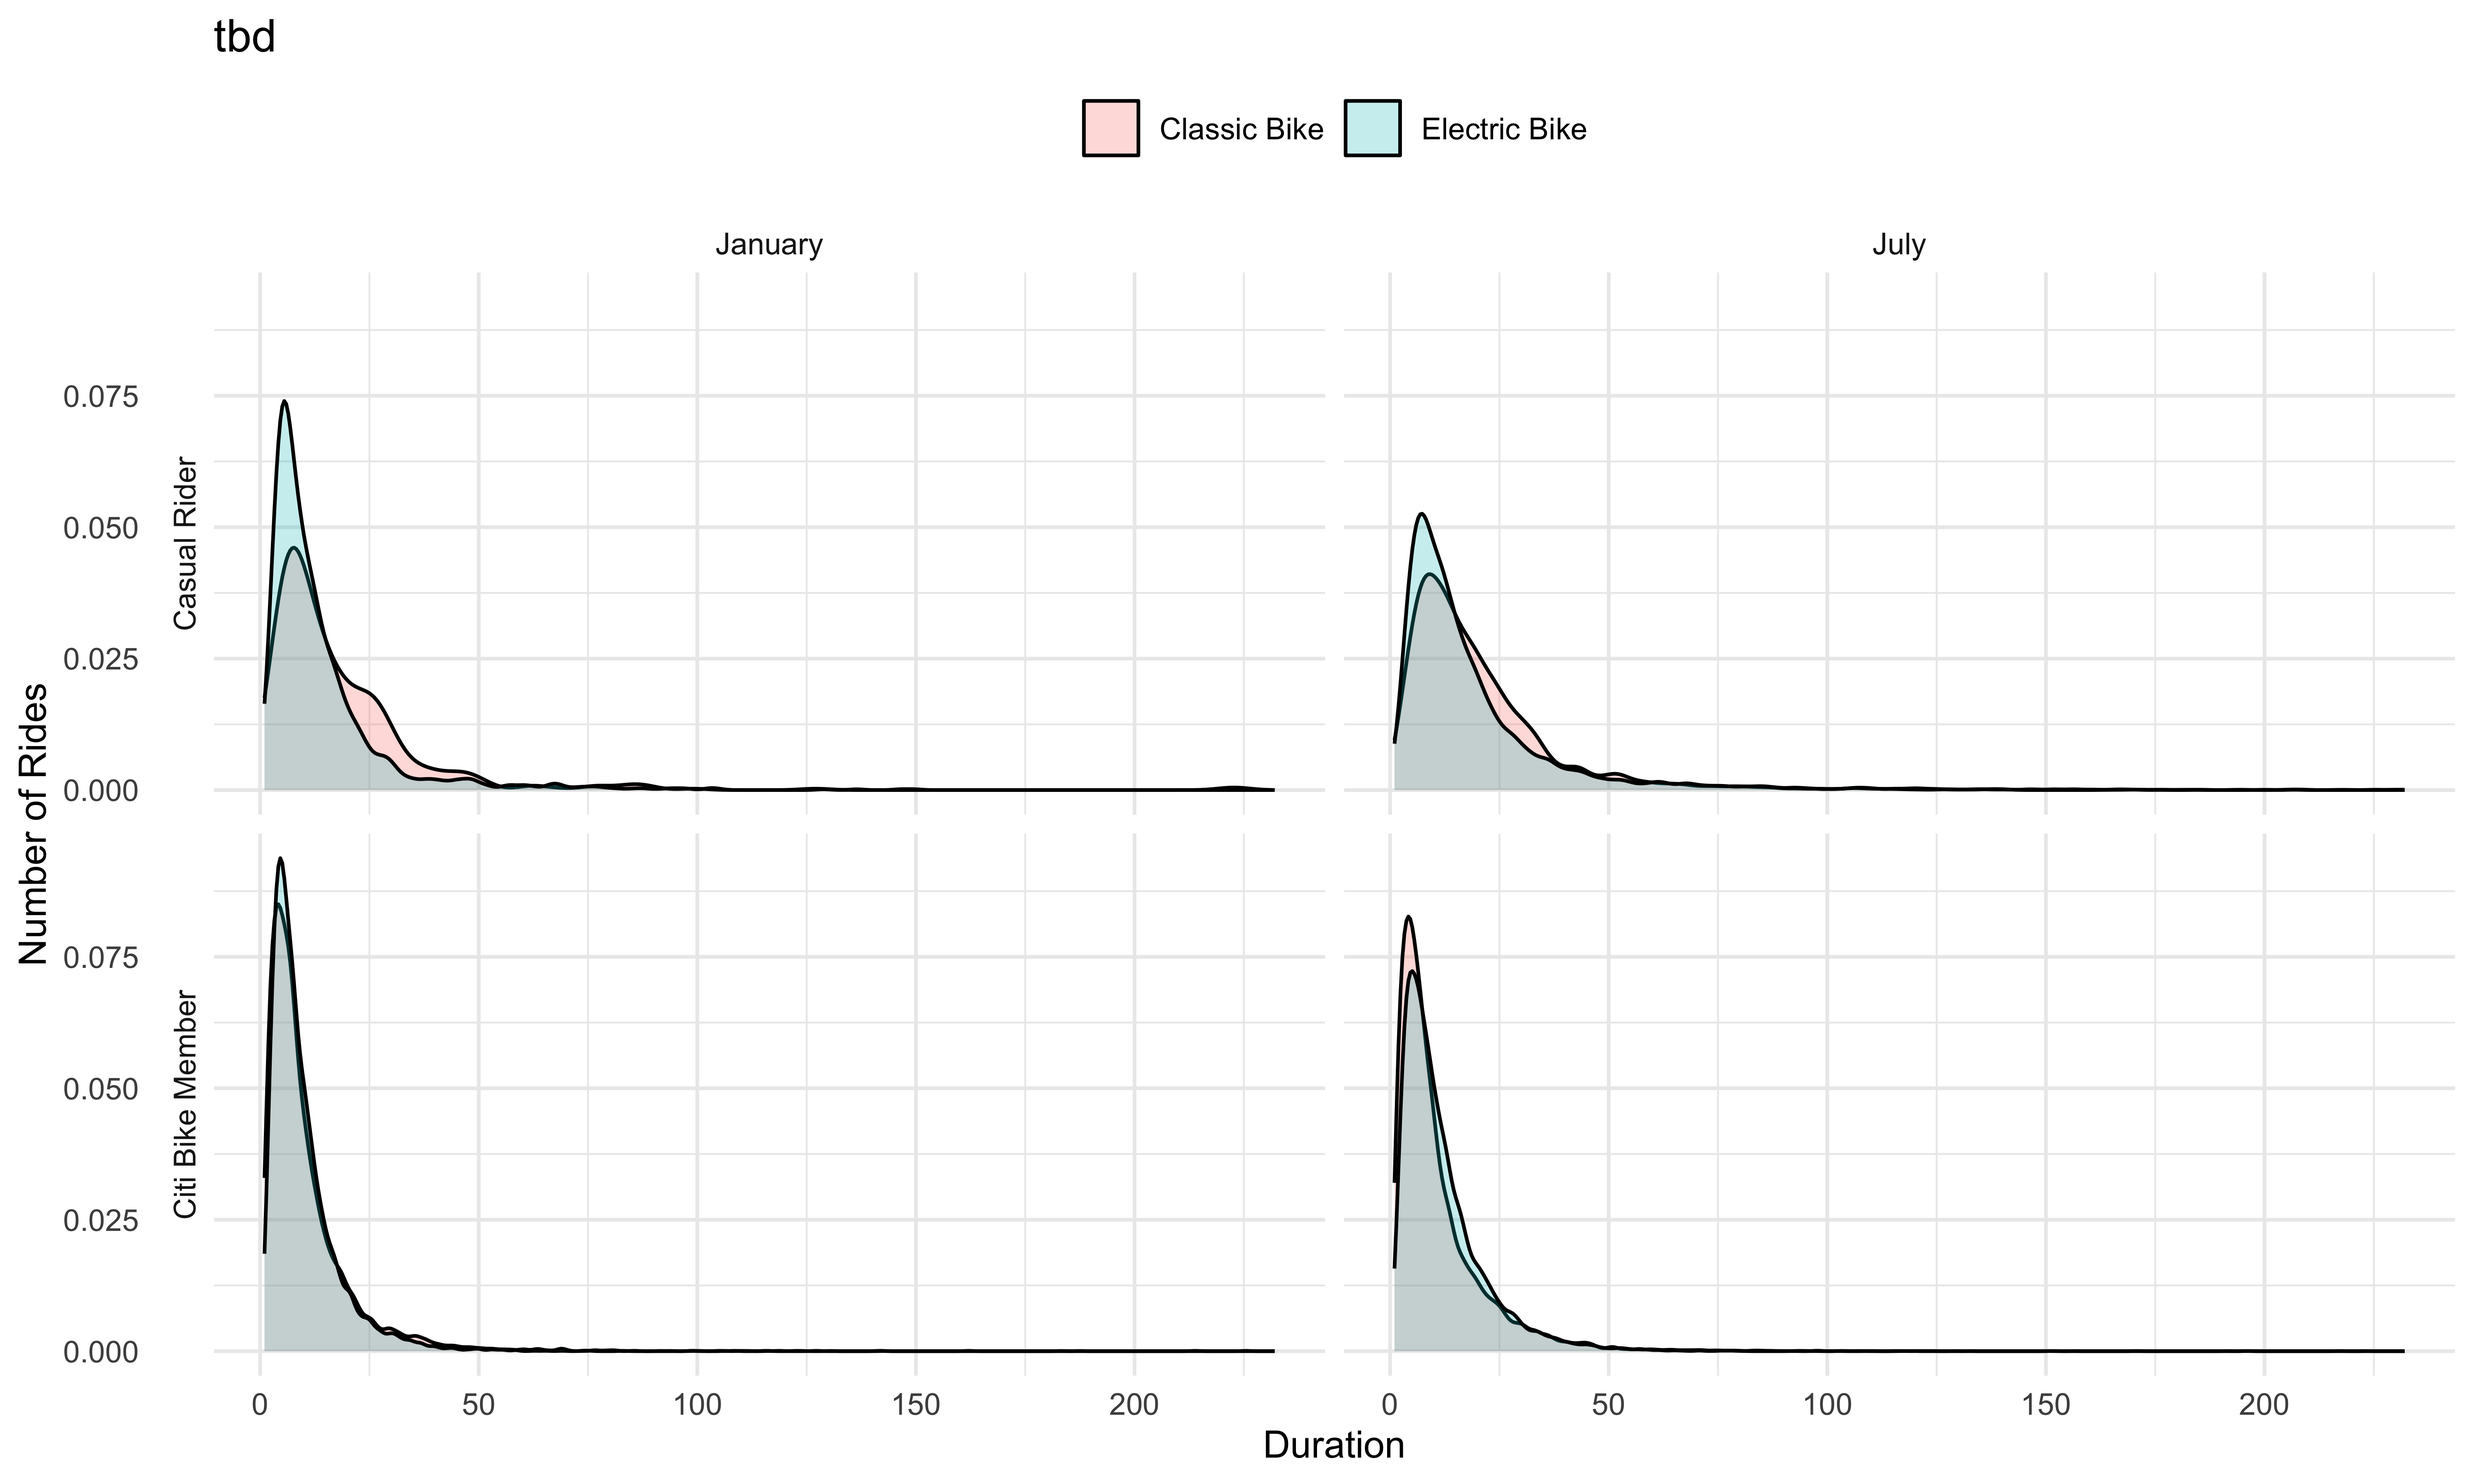
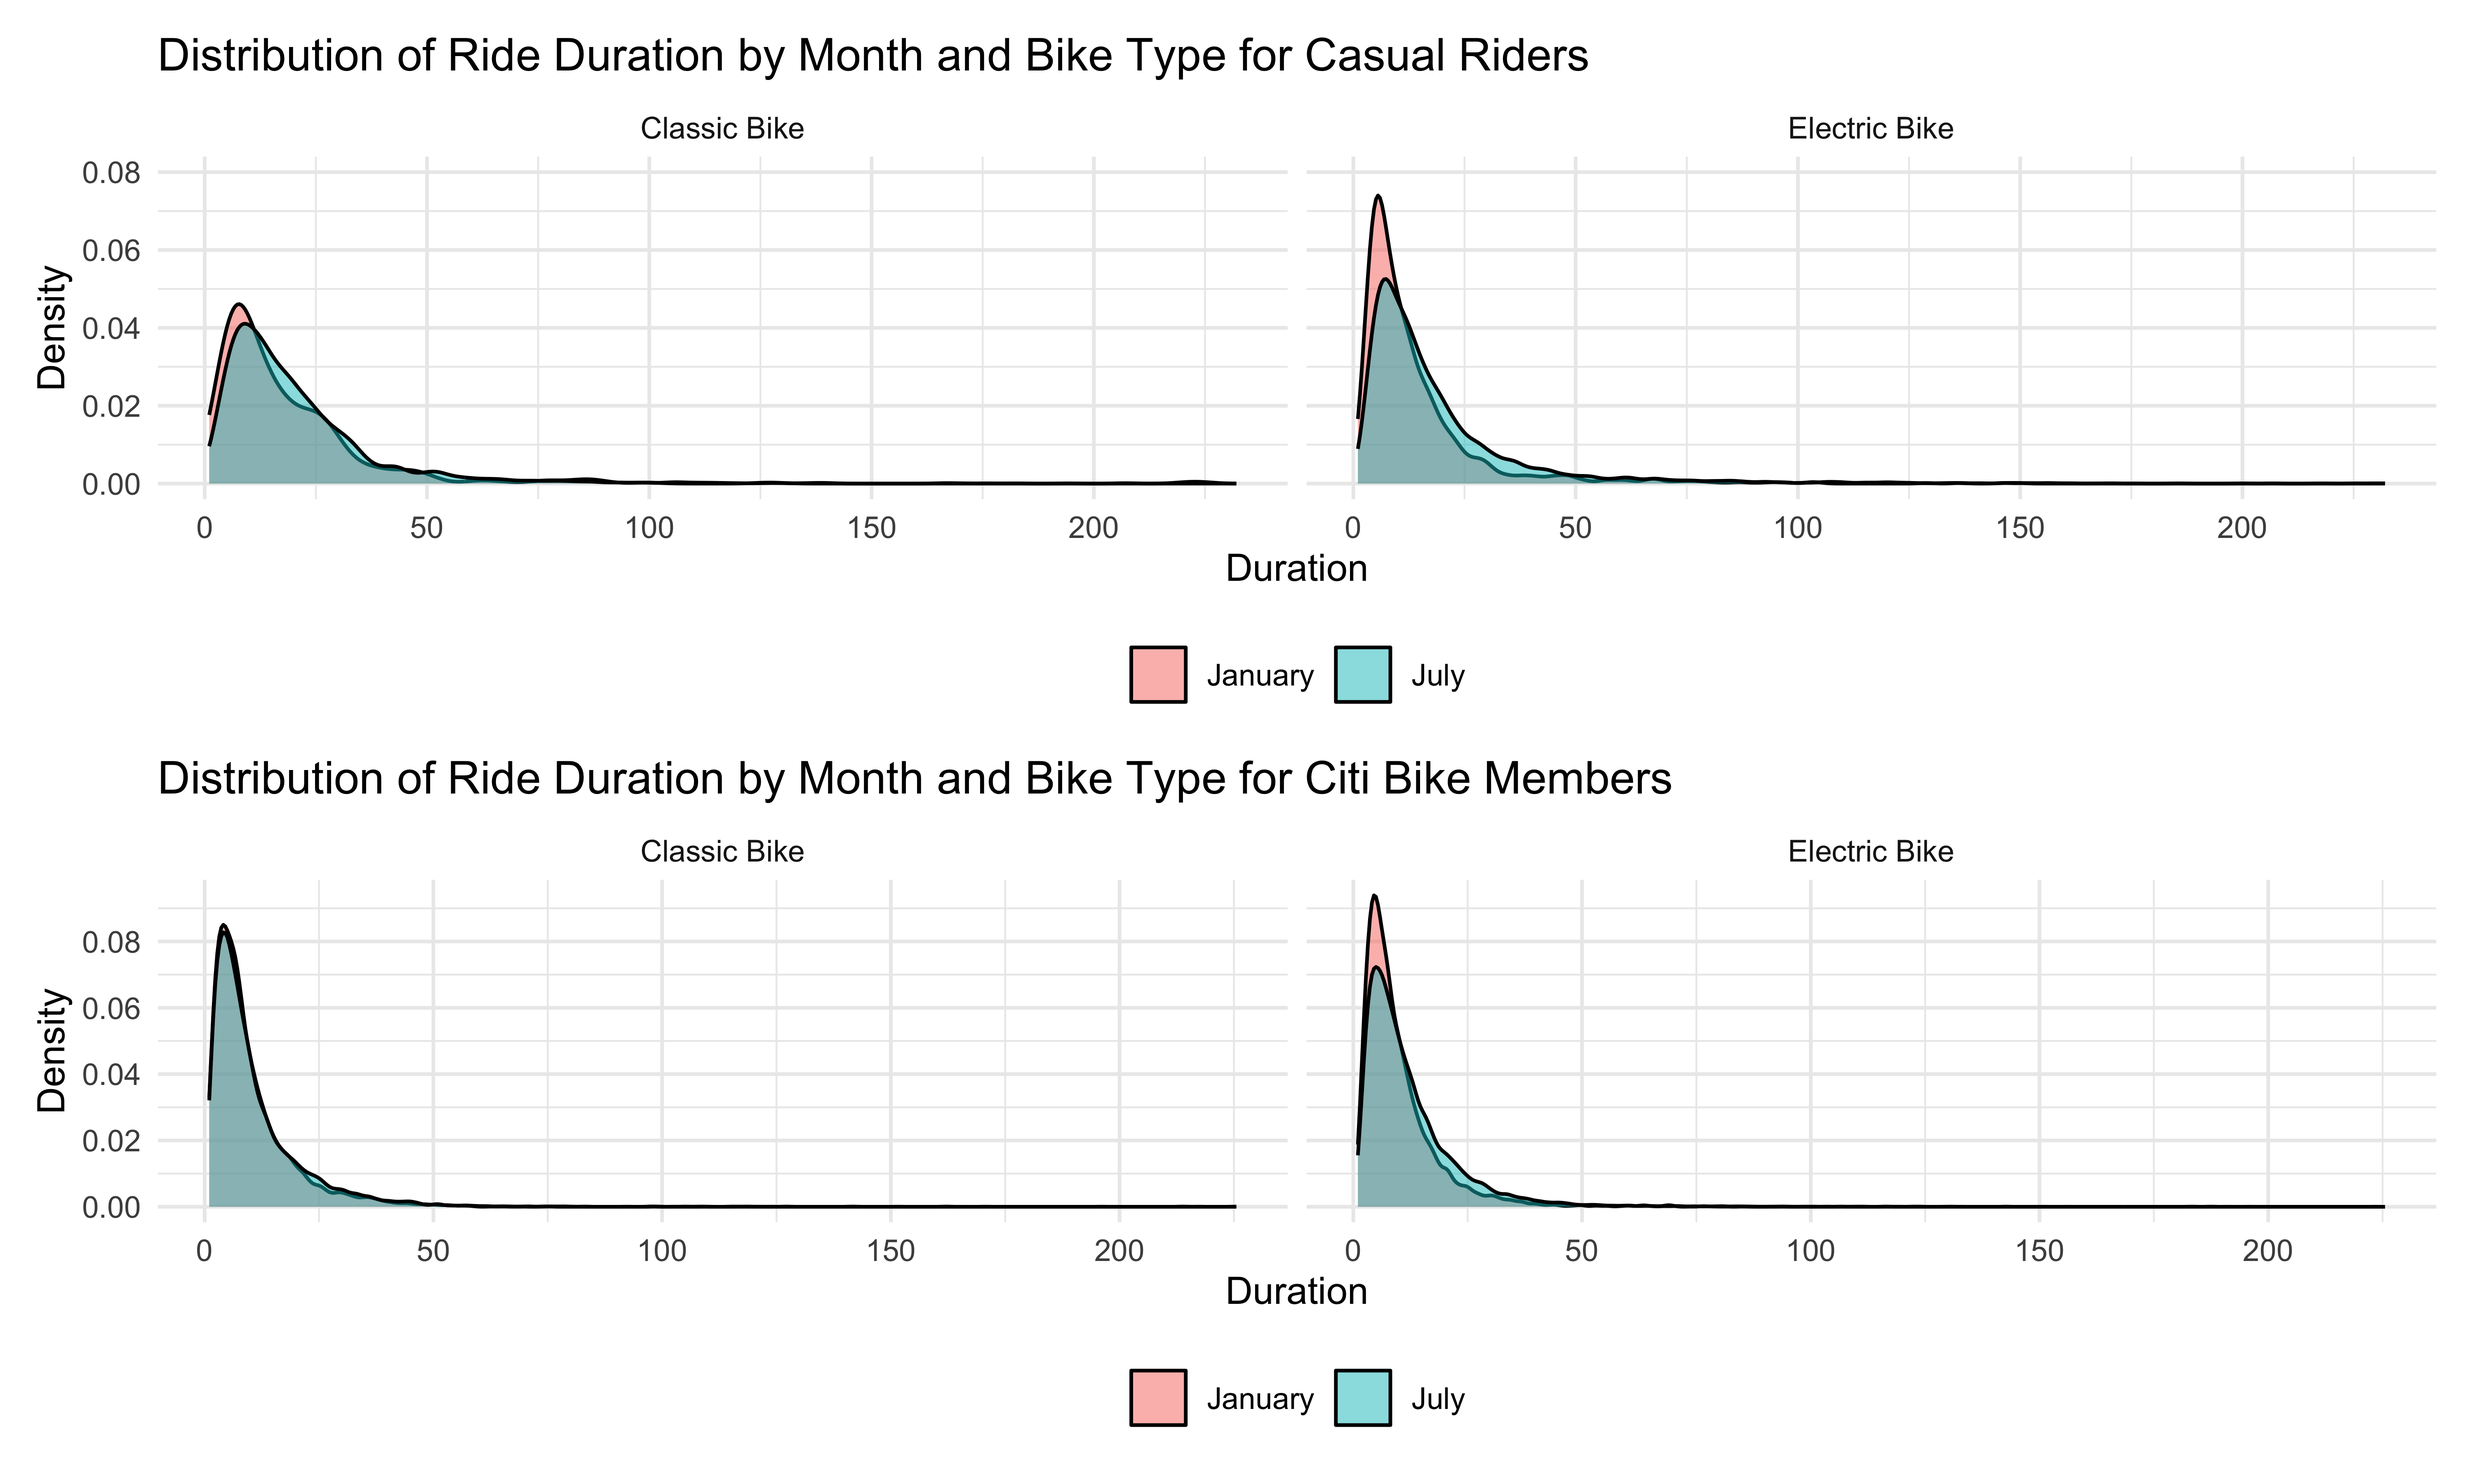
Answered problem 3

diff --git a/p8105_hw3_mjh2289.md b/p8105_hw3_mjh2289.md
@@ -1,7 +1,7 @@
 Data Science I (P8105), Homework 3
 ================
 Max Hyman (mjh2289),
-2026-10-14
+2026-10-15
 
 ##### Load packages
 
@@ -352,13 +352,13 @@ nhanes |>
     x = "Hour of the Day \n(0 is 12:00-12:59am, 1 is 1:00-1:59am, ..., 23 is 23:00-23:59pm)",
     y = "Activity (MIMS)",
     title = "Total Activity by Sex and Education Level"
-  ) + 
+    ) + 
   theme(
     legend.position = "top",
     legend.title = element_blank(),
     legend.box.spacing = unit(0, "pt"),
     plot.title = element_text(margin = margin(t = 5, b = -2, unit = "pt"))
-  ) + 
+    ) + 
   scale_x_continuous(
     breaks = seq(0, 23, 1),
     expand = c(0, 0)
@@ -395,19 +395,19 @@ are more active consistently through the rest of the day.
 ``` r
 citi_jan_2020 <- read_csv("Data/Jan 2020 Citi.csv") |>
   janitor::clean_names() |> 
-  mutate(month_year = "January 2020") |> 
+  mutate(month_year = "January, 2020") |> 
   relocate(month_year)
 citi_jan_2024 <- read_csv("Data/Jan 2024 Citi.csv") |>
   janitor::clean_names() |> 
-  mutate(month_year = "January 2024") |> 
+  mutate(month_year = "January, 2024") |> 
   relocate(month_year)
 citi_july_2020 <- read_csv("Data/July 2020 Citi.csv") |>
   janitor::clean_names() |> 
-  mutate(month_year = "July 2020") |> 
+  mutate(month_year = "July, 2020") |> 
   relocate(month_year)
 citi_july_2024 <- read_csv("Data/July 2024 Citi.csv") |>
   janitor::clean_names() |> 
-  mutate(month_year = "July 2024") |> 
+  mutate(month_year = "July, 2024") |> 
   relocate(month_year)
 
 citi <- bind_rows(citi_jan_2020, citi_jan_2024, citi_july_2020, citi_july_2024)
@@ -429,27 +429,33 @@ citi |>
     ) |> 
   group_by(month_year, member_casual) |> 
   summarize(count = n()) |> 
-  knitr::kable(col.names = c("Month, Year", "Member Type", "Number of Riders"))
+  knitr::kable(col.names = c("Month, Year", "Member Type", "Number of Rides"))
 ```
 
-| Month, Year  | Member Type      | Number of Riders |
-|:-------------|:-----------------|-----------------:|
-| January 2020 | Casual Rider     |              984 |
-| January 2020 | Citi Bike Member |            11436 |
-| January 2024 | Casual Rider     |             2108 |
-| January 2024 | Citi Bike Member |            16753 |
-| July 2020    | Casual Rider     |             5637 |
-| July 2020    | Citi Bike Member |            15411 |
-| July 2024    | Casual Rider     |            10894 |
-| July 2024    | Citi Bike Member |            36262 |
+| Month, Year   | Member Type      | Number of Rides |
+|:--------------|:-----------------|----------------:|
+| January, 2020 | Casual Rider     |             984 |
+| January, 2020 | Citi Bike Member |           11436 |
+| January, 2024 | Casual Rider     |            2108 |
+| January, 2024 | Citi Bike Member |           16753 |
+| July, 2020    | Casual Rider     |            5637 |
+| July, 2020    | Citi Bike Member |           15411 |
+| July, 2024    | Casual Rider     |           10894 |
+| July, 2024    | Citi Bike Member |           36262 |
 
-Add description
+This exhibit shows the total number of rides for casual riders and Citi
+bike members in January 2020, January 2024, July 2020, and July 2024.
+For each rider type, in both 2020 and 2024, ridership is more common in
+July than January. Furthermore, for each rider types, in both January
+and July, ridership is more common in 2024 than 2020. In July 2024, the
+total number of rides was 10894 for casual riders and 36262 for Citi
+bike members.
 
 ##### Make a table showing the 5 most popular starting stations for July 2024; include the number of rides originating from these stations.
 
 ``` r
 citi |> 
-  filter(month_year == "July 2024") |> 
+  filter(month_year == "July, 2024") |> 
   group_by(start_station_name) |> 
   summarize(count = n()) |> 
   arrange(desc(count)) |> 
@@ -465,27 +471,28 @@ citi |>
 | West St & Chambers St    |             150 |
 | W 31 St & 7 Ave          |             146 |
 
+This exhibit features the 5 most popular starting stations in July 2024,
+all of which are in Manhattan!
+
 ##### Make a plot to investigate the effects of day of the week, month, and year on median ride duration. This plot can include one or more panels, but should facilitate comparison across all variables of interest. Comment on your observations from this plot.
 
 ``` r
 citi |> 
   mutate(
     month = case_when(
-      month_year == "January 2020" ~ "January",
-      month_year == "January 2024" ~ "January",
-      month_year == "July 2020" ~ "July",
-      month_year == "July 2024" ~ "July"
+      month_year == "January, 2020" ~ "January",
+      month_year == "January, 2024" ~ "January",
+      month_year == "July, 2020" ~ "July",
+      month_year == "July, 2024" ~ "July"
       ),
     year = case_when(
-      month_year == "January 2020" ~ "2020",
-      month_year == "January 2024" ~ "2024",
-      month_year == "July 2020" ~ "2020",
-      month_year == "July 2024" ~ "2024"
+      month_year == "January, 2020" ~ "2020",
+      month_year == "January, 2024" ~ "2024",
+      month_year == "July, 2020" ~ "2020",
+      month_year == "July, 2024" ~ "2024"
       ),
     weekdays = factor(weekdays, 
-                      levels = c("Monday", "Tuesday", "Wednesday",
-                                 "Thursday", "Friday", "Saturday", 
-                                 "Sunday")
+                      levels = c("Monday", "Tuesday", "Wednesday", "Thursday", "Friday", "Saturday", "Sunday")
                       )
     ) |>
   group_by(year, month, weekdays) |> 
@@ -497,7 +504,7 @@ citi |>
   labs(
     x = "Day of Week",
     y = "Median Ride Duration (Minutes)",
-    title = "Median Ride Duration During Weekdays in January and July, 2020 versus 2024"
+    title = "Median Ride Duration by Day of the Week in January and July, 2020 versus 2024"
     ) + 
   theme(
     legend.position = "top",
@@ -507,41 +514,97 @@ citi |>
 
 <img src="p8105_hw3_mjh2289_files/figure-gfm/unnamed-chunk-14-1.png" alt="" width="90%" />
 
-Add description
+This exhibit illustrates the relationship between median ride duration
+and day of the week, month, and year. There are a few interesting
+observations. First, median ride duration is bimodal across days of the
+week Specifically, median ride duration is similar between Monday and
+Friday–the weekdays–and is similar on Saturday and Sunday–the weekend.
+Second, irrespective of day of the week or year, median ride duration is
+longer in July than January. Finally, irrespective of day of the week
+and month, median ride duration is shorter in 2024 than 2020.
+Altogether, this exhibit suggests median ride duration may have
+consistent day of the week and seasonal patterns while becoming shorter
+over time.
 
 ##### There were relatively few electric Citi Bikes in 2020, but many more are available now. For data in 2024, make a figure that shows the impact of month, membership status, and bike type on the distribution of ride duration. Comment on your results.
 
 ``` r
-citi |> 
-  filter(month_year == "January 2024" | month_year == "July 2024") |> 
+casual = citi |> 
+  filter(month_year == "January, 2024" | month_year == "July, 2024",
+         member_casual == "casual") |> 
   mutate(
     month = case_when(
-      month_year == "January 2024" ~ "January",
-      month_year == "July 2024" ~ "July"
-    ),
-    member_casual = case_when(
-      member_casual == "member" ~ "Citi Bike Member",
-      member_casual == "casual" ~ "Casual Rider"
+      month_year == "January, 2024" ~ "January",
+      month_year == "July, 2024" ~ "July"
     ),
     rideable_type = case_when(
       rideable_type == "classic_bike" ~ "Classic Bike",
       rideable_type == "electric_bike" ~ "Electric Bike")
     ) |>
   ggplot() + 
-  geom_density(mapping = aes(x = duration, fill = rideable_type), alpha = 0.25) + 
-  facet_grid(member_casual ~ month, switch = "y") + 
+  geom_density(mapping = aes(x = duration, fill = month), alpha = 0.5) + 
+  facet_grid(~ rideable_type) + 
    theme_minimal() + 
   labs(
     x = "Duration",
-    y = "Number of Rides",
-    title = "tbd"
+    y = "Density",
+    title = "Distribution of Ride Duration by Month and Bike Type for Casual Riders"
     ) + 
   theme(
-    legend.position = "top",
-    legend.title = element_blank(),
-  ) 
+    legend.position = "bottom",
+    legend.title = element_blank()
+    ) + 
+  scale_y_continuous(breaks = c(0.00, 0.02, 0.04, 0.06, 0.08), 
+                     limits = c(0.00, 0.08)
+                     )
+
+member = citi |> 
+  filter(month_year == "January, 2024" | month_year == "July, 2024",
+         member_casual == "member") |> 
+  mutate(
+    month = case_when(
+      month_year == "January, 2024" ~ "January",
+      month_year == "July, 2024" ~ "July"
+    ),
+    rideable_type = case_when(
+      rideable_type == "classic_bike" ~ "Classic Bike",
+      rideable_type == "electric_bike" ~ "Electric Bike")
+    ) |>
+  ggplot() + 
+  geom_density(mapping = aes(x = duration, fill = month), alpha = 0.5) + 
+  facet_grid(~ rideable_type) + 
+   theme_minimal() + 
+  labs(
+    x = "Duration",
+    y = "Density",
+    title = "Distribution of Ride Duration by Month and Bike Type for Citi Bike Members"
+    ) + 
+  theme(
+    legend.position = "bottom",
+    legend.title = element_blank()
+    ) +
+  scale_y_continuous(breaks = c(0.00, 0.02, 0.04, 0.06, 0.08))
+
+casual / member
 ```
 
 <img src="p8105_hw3_mjh2289_files/figure-gfm/unnamed-chunk-15-1.png" alt="" width="90%" />
 
-Add description
+These exhibits illustrate the relationship between the distribution of
+ride duration and month, bike type, and membership status. The top panel
+describes the distribution of ride duration by month and bike type for
+casual riders. For both classic and electric bikes, the distribution of
+ride duration is more concentrated among shorter rides in January than
+July. Furthermore, in both January and July, the distribution of ride
+duration is more concentrated among shorter rides for electric bikes
+than classic bikes.
+
+Next, the bottom panel describes the distribution of ride duration by
+month and bike type for Citi bike members. For classic bikes, but not
+electric bikes, the distribution of ride duration is similar in January
+than July. For electric bikes, the distribution is more concentrated
+among shorter rides in January than July. Furthermore, the distribution
+of ride duration is more concentrated among shorter rides in January for
+electric bikes compared to classic bikes, whereas the distribution is
+more concentrated among shorter rides in July for classic bikes compared
+to electric bikes.
